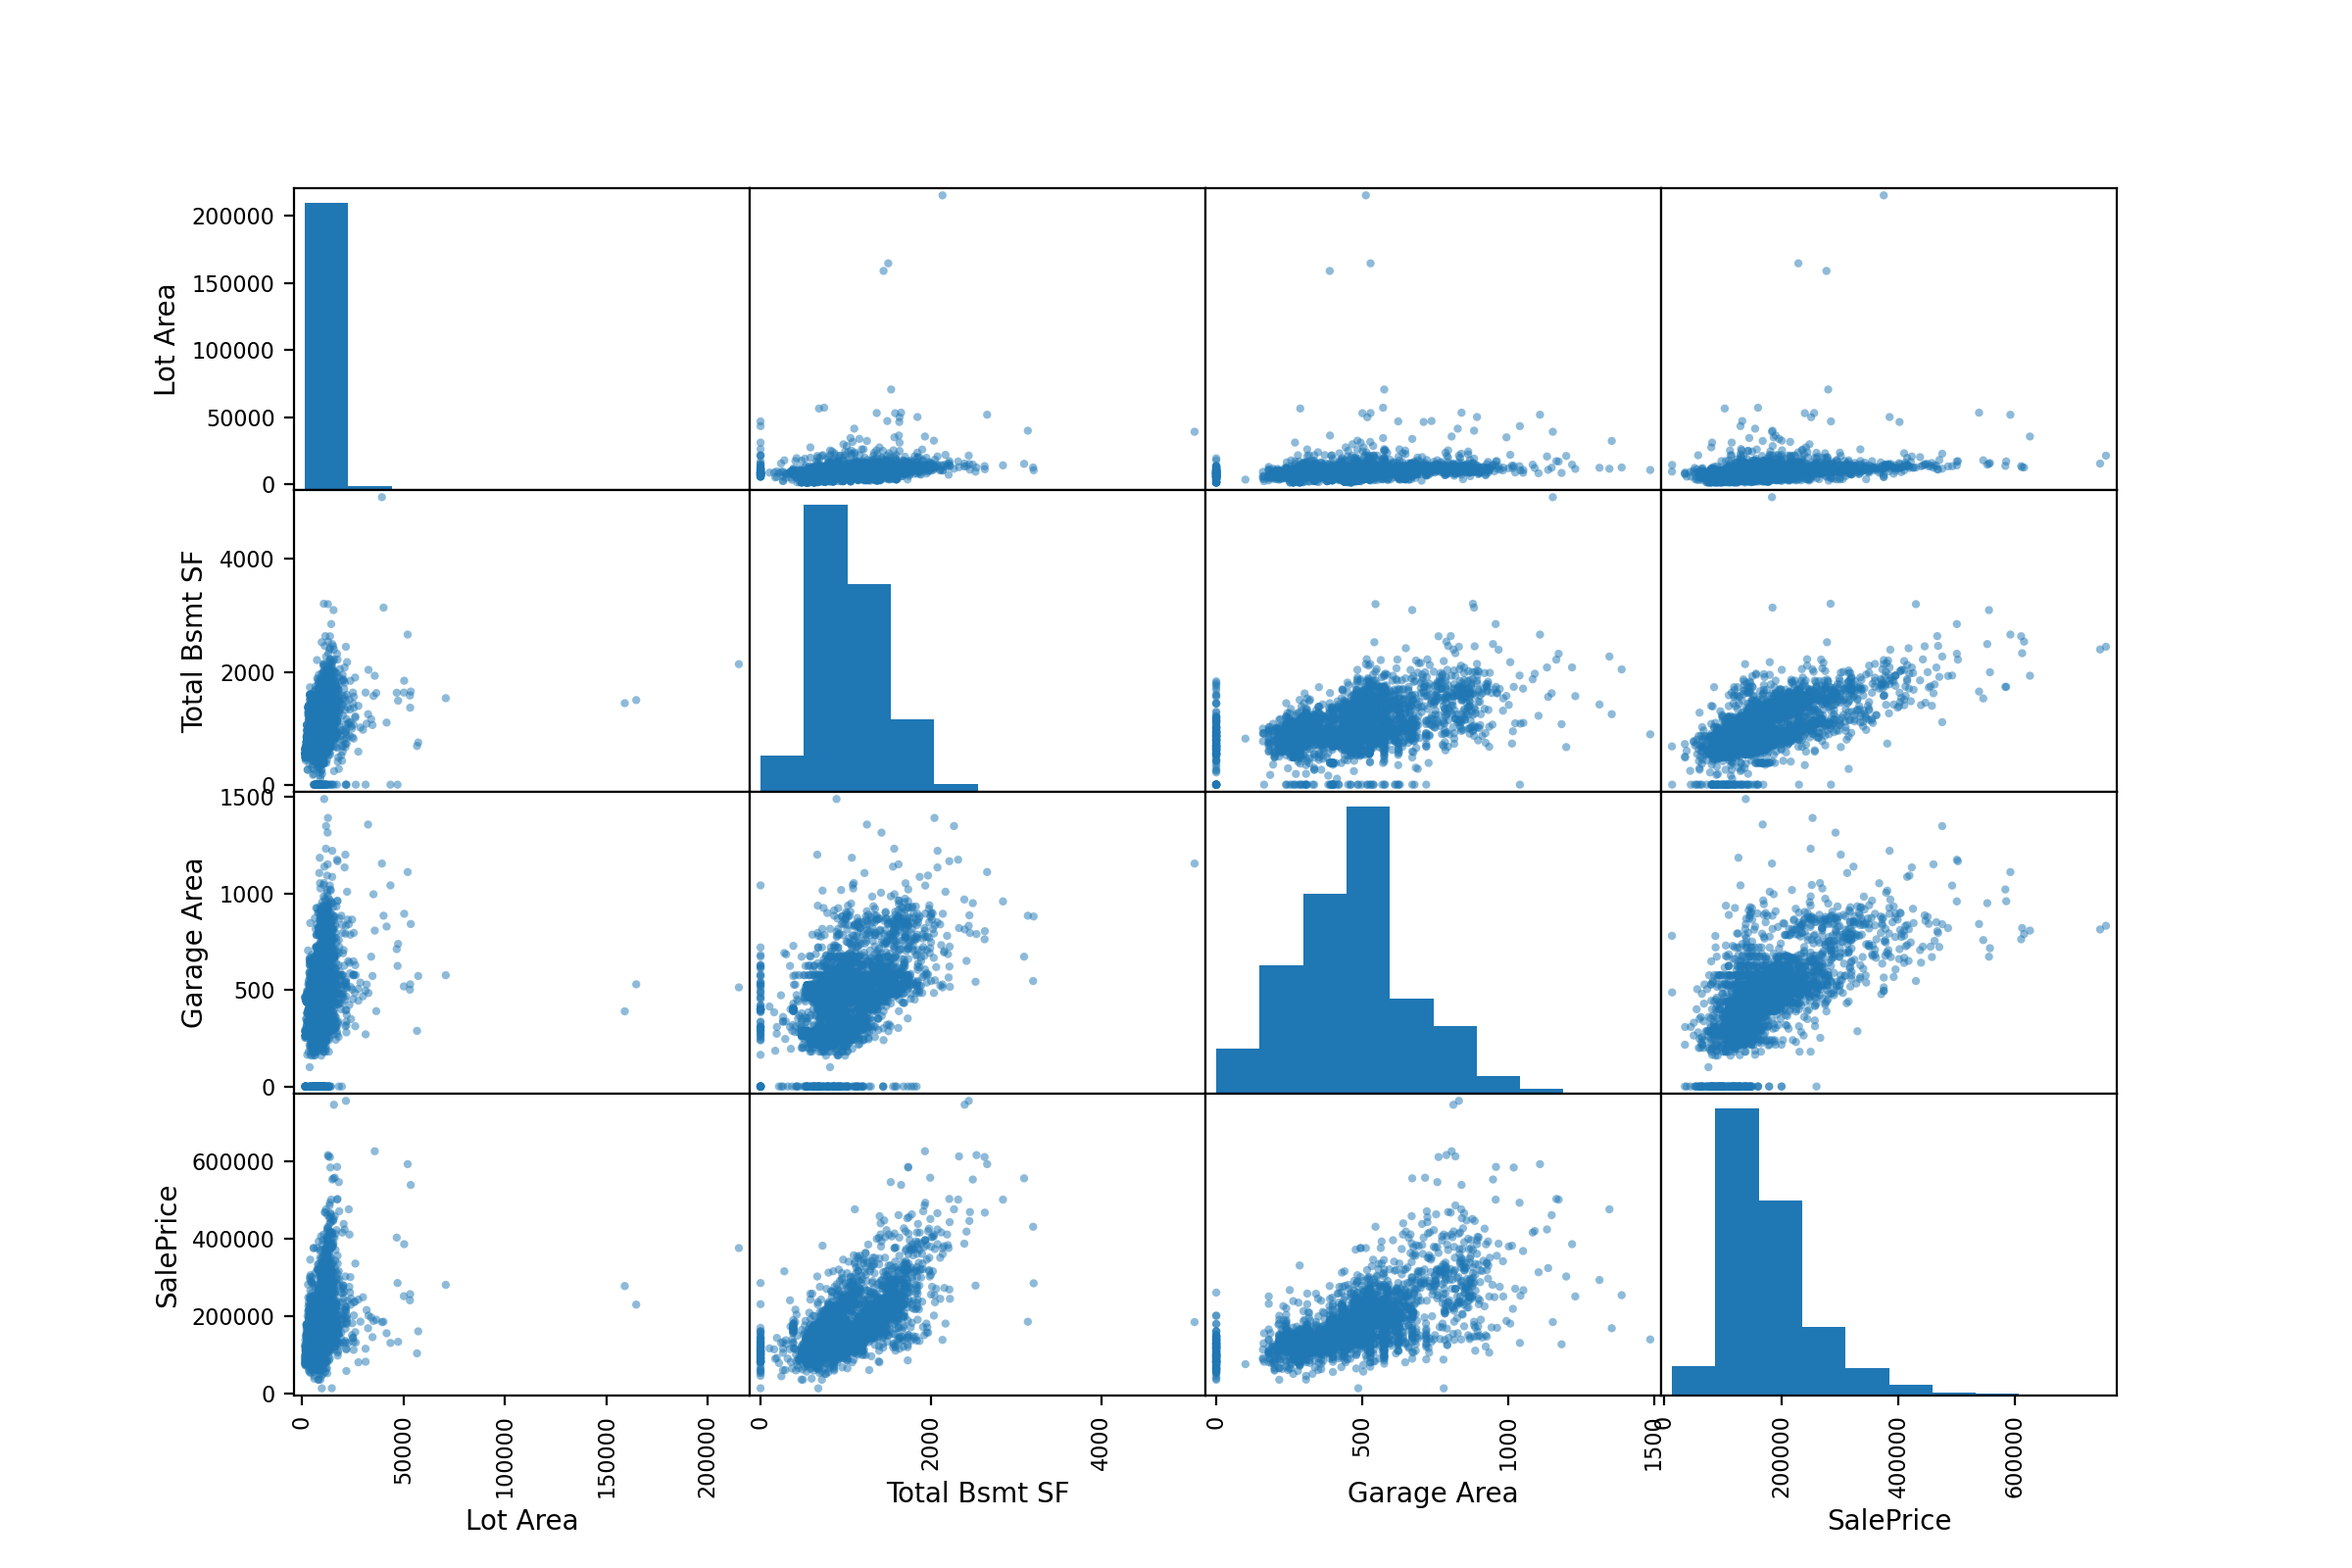
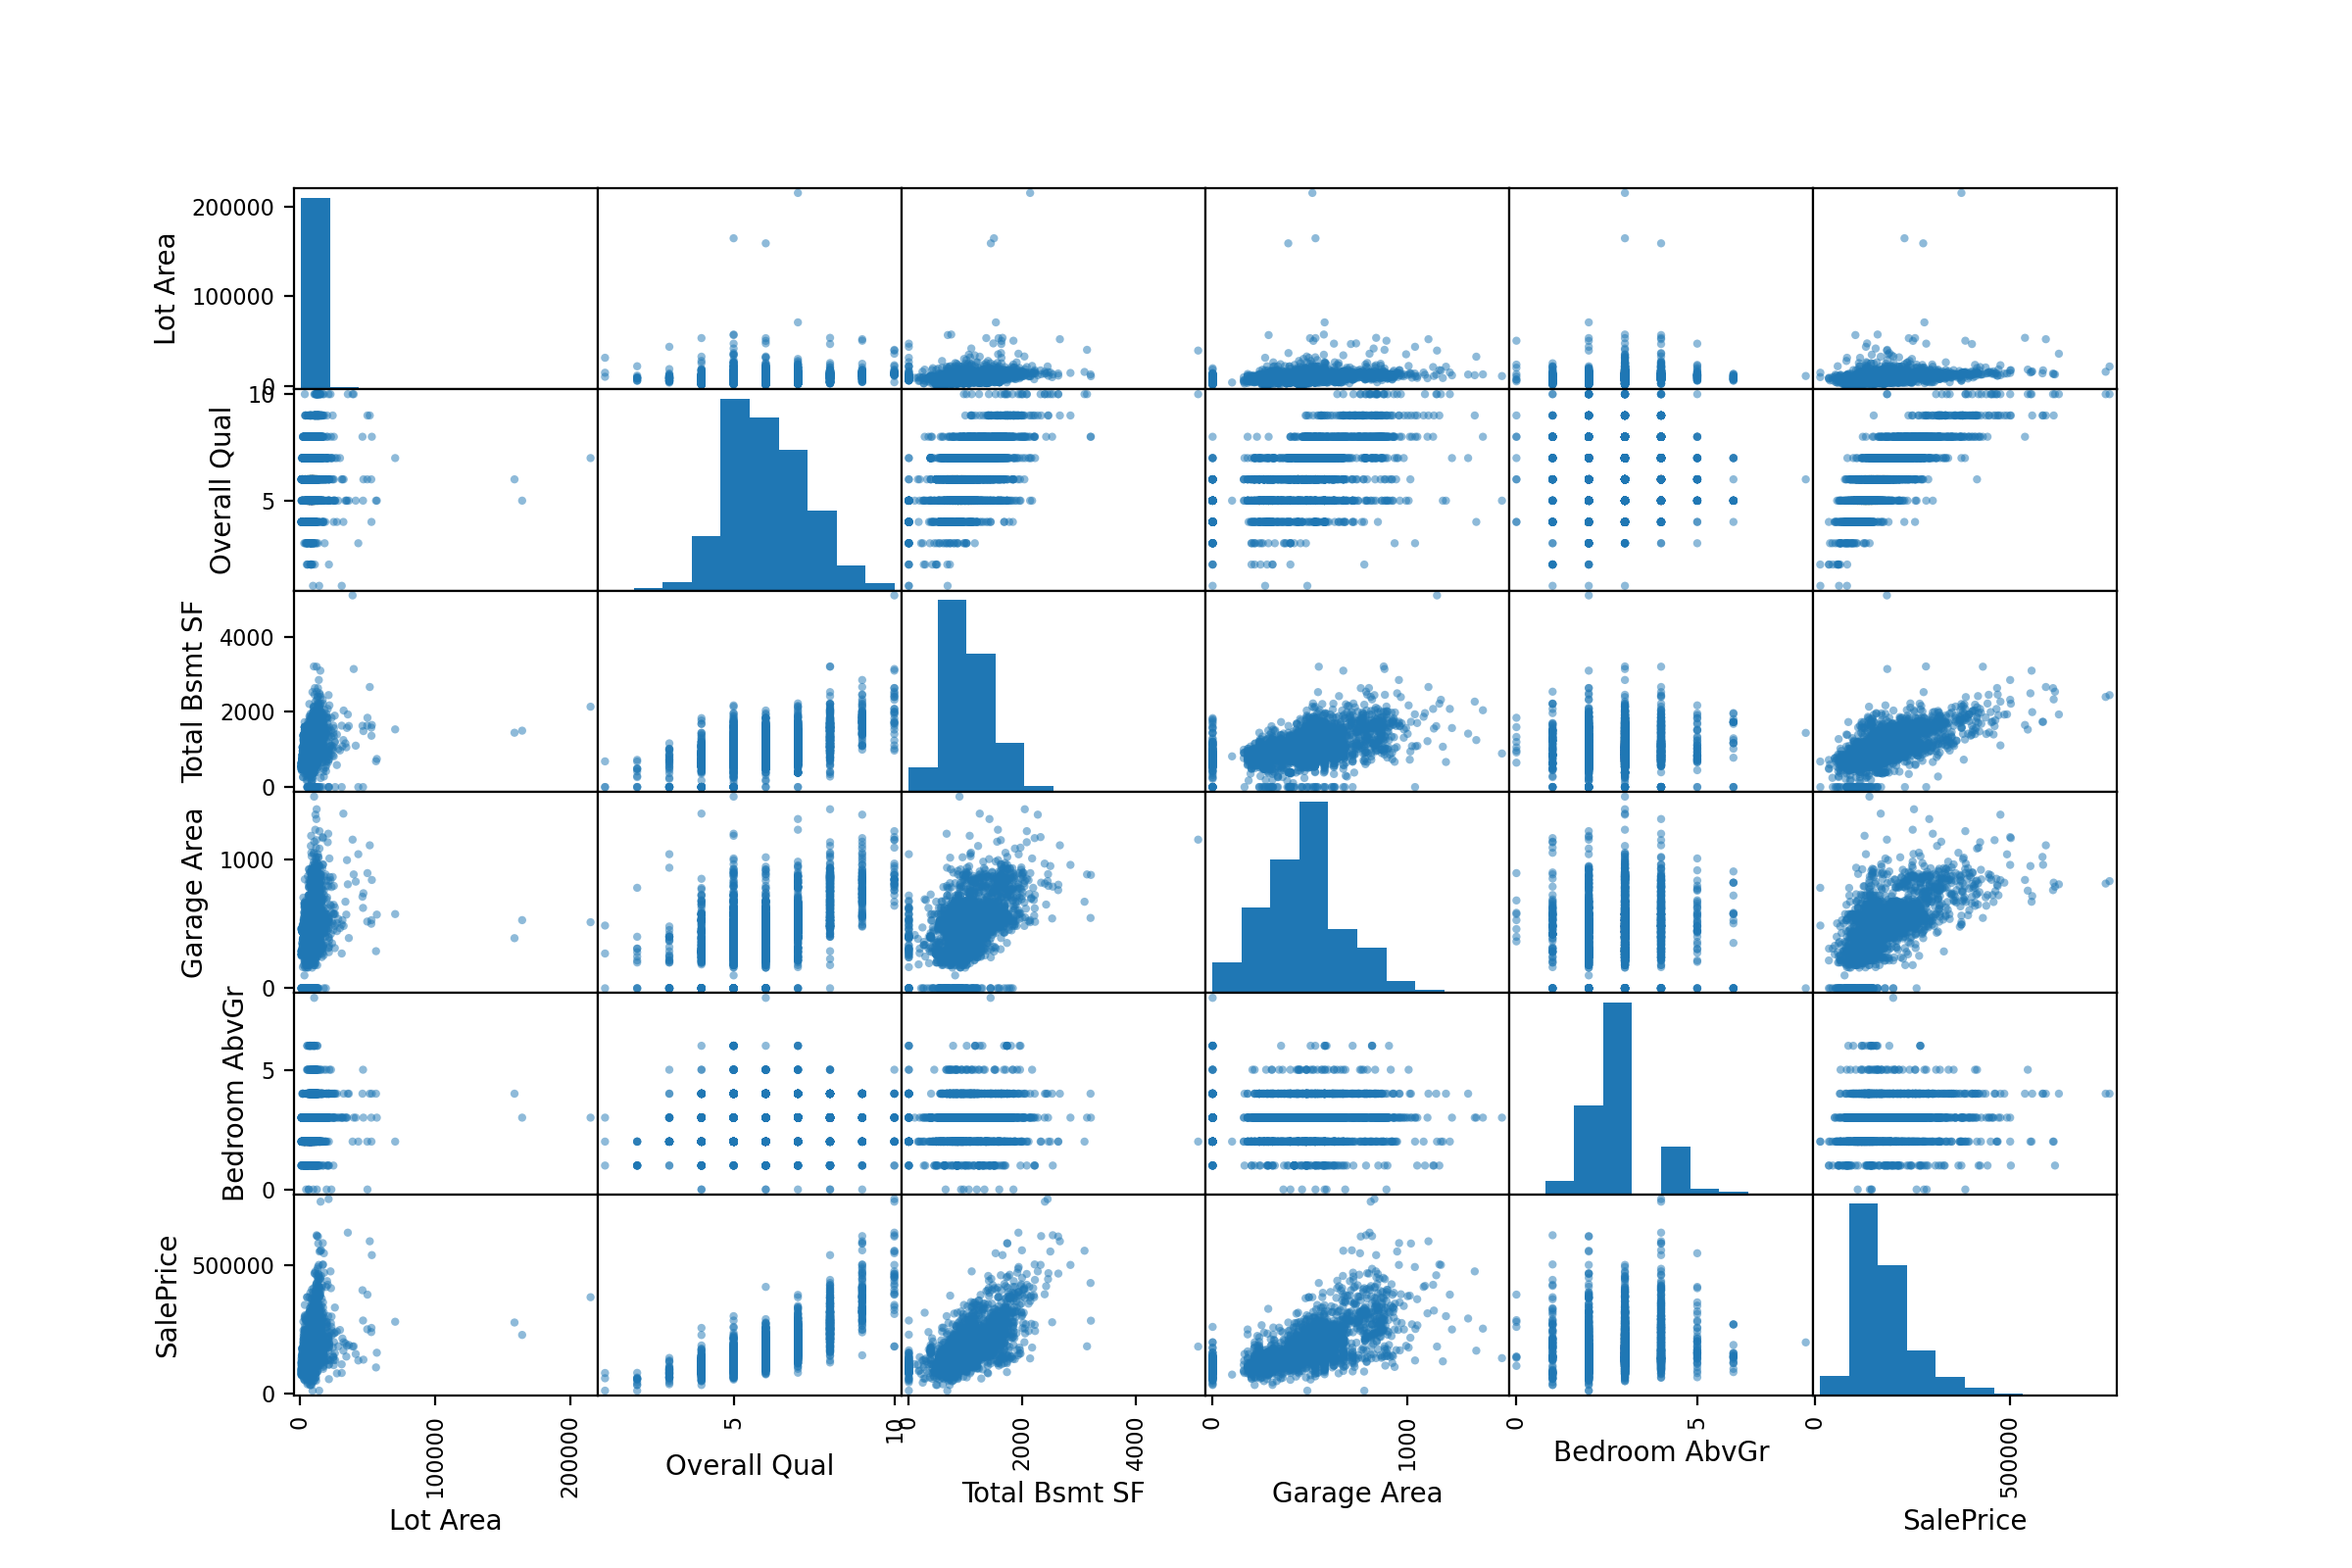
new document for more features

diff --git a/src/modelling.py b/src/modelling.py
@@ -49,7 +49,6 @@ X_train = X_train[columns_to_use]
 X_test = X_test[columns_to_use]
 
 
-
 #scattermix
 attributes = [
     "Lot Area",
@@ -96,7 +95,7 @@ elastic_model = ElasticNet()
 
 #looking at data
 plt.figure()
-sns.distplot(y_Train, bins=30, fit=norm)
+sns.distplot(all_data['SalePrice'], bins=30)
 plt.savefig('graphs/ saleprice positive skewness') #its peak deviates from normal distribution
 
 plt.figure()
@@ -169,18 +168,6 @@ print(f"best score Ridge: {ridge_regressor.best_score_}")
 
 #plot model and  learning curves
 plot_learning_curves(Ridge( alpha = 5, fit_intercept = True, solver = 'svd'), X_train, y_Train)
-
-#plt.figure()
-#plot_model(Ridge, X_train, y_Train, polynomial = False, alphas =(0, 10, 100), random_state=42)
-#plt.title("ridge model linear")
-#plt.savefig('graphs/ridge learning curve, linear')
-
-#plt.figure()
-#lot_model(Ridge, X_train, y_Train, polynomial = True, alphas =(0, 5, 10, 100), random_state=42)
-#plt.title("ridge model polynomial")
-#plt.savefig('graphs/ridge polynomial')
-
-
 
 #Lasso Regression
 cross_val_scores_lasso = []
@@ -265,20 +252,6 @@ plot_learning_curves(ElasticNet(alpha = 0.01), X_train, y_Train)
 plt.savefig("graphs/learningcurve elastic net")
 chosen_model = ElasticNet(alpha = 0.01)
 
-# Polynomial
-#Poly = PolynomialFeatures(degree = 10, include_bias = False)
-#xTrainPoly = Poly.fit_transform(X_train)
-#xTrainPolyscaled = scaler.fit_transform(xTrainPoly) #do i need to scale again if the training data is already scaled?
-
-#Ridge Model
-#ridge_model.fit(X_train, y_Train)
-#yFit_ridge = ridge_model.predict(X_train)
-#y_pred_ridge = ridge_model.predict(X_test)
-
-#Lasso Model
-#lasso_model.fit(X_train, y_Train)
-#yFit_lasso = lasso_model.predict(X_train)
-#y_pred_lasso = lasso_model.predict(X_test)
 
 #Elastic Net Model
 chosen_model.fit(X_train, y_Train)
